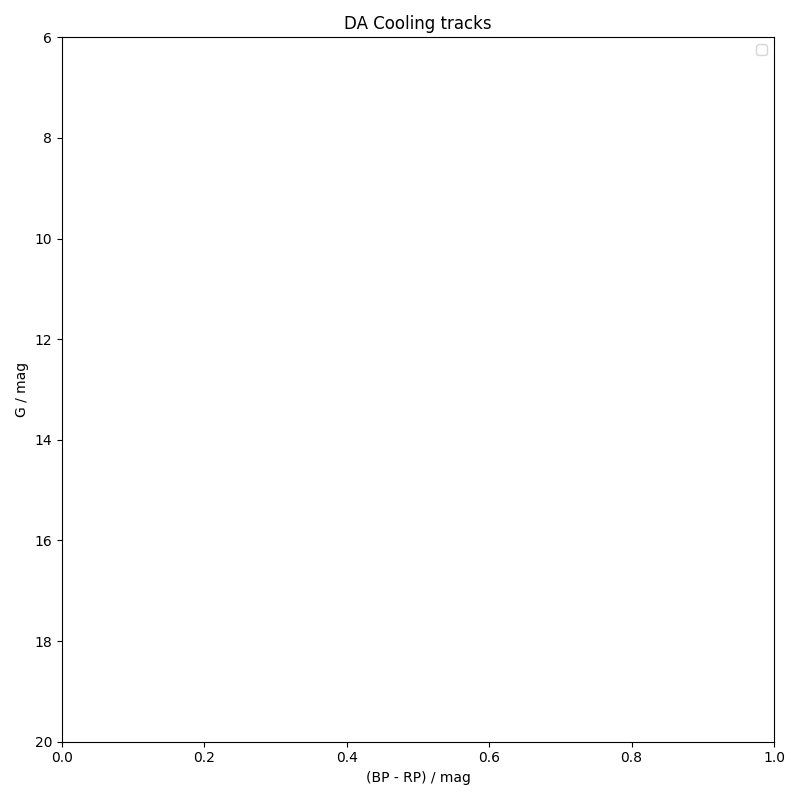
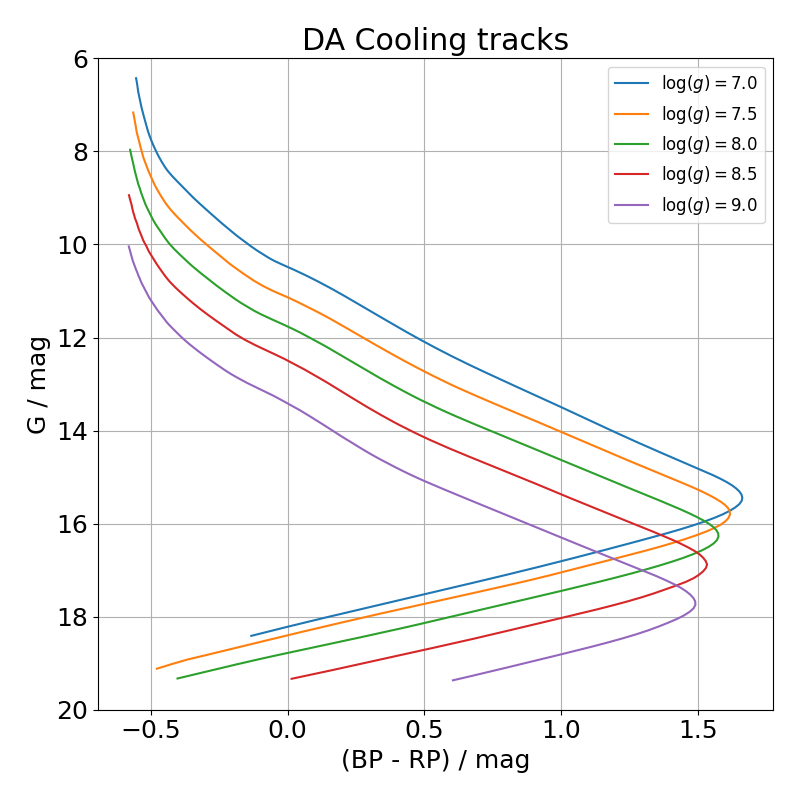
Added example figures in readme, added test, added coverage.

diff --git a/WDPhotTools/fitter.py b/WDPhotTools/fitter.py
@@ -1,7 +1,7 @@
-import emcee
 from matplotlib import pyplot as plt
 import numpy as np
 from scipy import optimize
+import time
 
 from .atmosphere_model_reader import atm_reader
 
@@ -172,17 +172,20 @@ class WDfitter:
 
                     if distance is None:
 
-                        self.bestfit_params[j][i] = float(self.interpolator[j][i](
-                            self.results[j].x[:2]))
-                        self.bestfit_params[j]['distance'] = self.results[j].x[2]
-                        self.bestfit_params[j]['dist_mod'] = 5. * (np.log10(self.results[j].x[2]) - 1)
+                        self.bestfit_params[j][i] = float(
+                            self.interpolator[j][i](self.results[j].x[:2]))
+                        self.bestfit_params[j]['distance'] = self.results[j].x[
+                            2]
+                        self.bestfit_params[j]['dist_mod'] = 5. * (
+                            np.log10(self.results[j].x[2]) - 1)
 
                     else:
 
-                        self.bestfit_params[j][i] = float(self.interpolator[j][i](
-                            self.results[j].x))
+                        self.bestfit_params[j][i] = float(
+                            self.interpolator[j][i](self.results[j].x))
                         self.bestfit_params[j]['distance'] = distance
-                        self.bestfit_params[j]['dist_mod'] = 5. * (np.log10(distance) - 1)
+                        self.bestfit_params[j]['dist_mod'] = 5. * (
+                            np.log10(distance) - 1)
 
         elif method == 'emcee':
 
@@ -214,7 +217,10 @@ class WDfitter:
                       atmosphere=['H', 'He'],
                       color=['red', 'blue'],
                       title=None,
-                      display=True):
+                      display=True,
+                      savefig=False,
+                      figname=None,
+                      ext='png'):
 
         if isinstance(color, str):
 
@@ -250,7 +256,8 @@ class WDfitter:
         for j, k in enumerate(atmosphere):
 
             ax.scatter(self.pivot_wavelengths,
-                       self.best_fit_mag[k] + self.bestfit_params[k]['dist_mod'],
+                       self.best_fit_mag[k] +
+                       self.bestfit_params[k]['dist_mod'],
                        label='Best-fit {}'.format(k),
                        color=color[j],
                        zorder=15)
@@ -277,7 +284,26 @@ class WDfitter:
 
         fig.tight_layout()
 
+        if savefig:
+
+            if isinstance(ext, str):
+
+                ext = [ext]
+
+            for e in ext:
+
+                if figname is None:
+
+                    figname = 'bestfit_wd_solution_{}.{}'.format(time.time(), e)
+
+                else:
+
+                    figname = figname + '.' + e
+
+                plt.savefig(figname)
+
         if display:
+
             plt.show()
 
         return fig

diff --git a/test/test_fitter.py b/test/test_fitter.py
@@ -1,0 +1,71 @@
+from WDPhotTools.fitter import WDfitter
+import numpy as np
+
+ftr = WDfitter()
+
+
+# List all atmosphere parameters
+def test_list_everything():
+    ftr.list_atmosphere_parameters()
+
+
+# Fitting for Mbol with 5 filters for both DA and DB
+def test_fitting_Mbol():
+    ftr.fit(filters=['G3', 'G3_BP', 'G3_RP', 'FUV', 'NUV'],
+            mags=[10.744, 10.775, 10.681, 13.940, 11.738],
+            mag_errors=[0.1, 0.1, 0.1, 0.1, 0.1],
+            logg=7.0,
+            independent=['Mbol'],
+            distance=10.,
+            distance_err=0.1,
+            initial_guess=[10.0])
+    ftr.show_best_fit(display=False)
+    assert np.isclose(ftr.results['H'].x,
+                      np.array([10.421]),
+                      rtol=1e-03,
+                      atol=1e-03).all()
+
+
+# Fitting for logg and Mbol with 5 filters for both DA and DB
+def test_fitting_logg_and_mbol():
+    ftr.fit(filters=['G3', 'G3_BP', 'G3_RP', 'FUV', 'NUV'],
+            mags=[10.744, 10.775, 10.681, 13.940, 11.738],
+            mag_errors=[0.1, 0.1, 0.1, 0.1, 0.1],
+            independent=['Mbol', 'logg'],
+            distance=10.,
+            distance_err=0.1,
+            initial_guess=[10.0, 7.0])
+    ftr.show_best_fit(display=False)
+    assert np.isclose(ftr.results['H'].x,
+                      np.array([10.421, 7.0]),
+                      rtol=1e-03,
+                      atol=1e-03).all()
+
+
+# Fitting for logg, Mbol and distance with 5 filters for both DA and DB
+def test_fitting_logg_Mbol_distance():
+    ftr.fit(filters=['G3', 'G3_BP', 'G3_RP', 'FUV', 'NUV'],
+            mags=[10.744, 10.775, 10.681, 13.940, 11.738],
+            mag_errors=[0.1, 0.1, 0.1, 0.1, 0.1],
+            independent=['Mbol', 'logg'],
+            initial_guess=[10.0, 7.0])
+    ftr.show_best_fit(display=False)
+    assert np.isclose(ftr.results['H'].x,
+                      np.array([10.421, 7.0, 10.]),
+                      rtol=1e-03,
+                      atol=1e-03).all()
+
+
+# Fitting for logg and Mbol with 8 filters for both DA and DB with Nelder-Mead
+def test_fitting_logg_mbol_nelder_mead():
+    ftr.fit(filters=['G3', 'G3_BP', 'G3_RP', 'FUV', 'NUV'],
+            mags=[10.744, 10.775, 10.681, 13.940, 11.738],
+            mag_errors=[0.1, 0.1, 0.1, 0.1, 0.1],
+            independent=['Mbol', 'logg'],
+            initial_guess=[10.0, 7.0],
+            kwargs_for_minimization={'method': 'Nelder-Mead'})
+    ftr.show_best_fit(display=False)
+    assert np.isclose(ftr.results['H'].x,
+                      np.array([10.421, 7.0, 10.]),
+                      rtol=1e-03,
+                      atol=1e-03).all()

diff --git a/example/fitting_atmospheric_properties.py b/example/fitting_atmospheric_properties.py
@@ -1,21 +1,7 @@
+from matplotlib.pyplot import savefig
 from WDPhotTools.fitter import WDfitter
 
 ftr = WDfitter()
-
-
-# Fitting for logg and Mbol with 8 filters for both DA and DB
-ftr.fit(filters=['g_ps1', 'r_ps1', 'i_ps1', 'z_ps1', 'y_ps1', 'G3', 'G3_BP', 'G3_RP'],
-        mags=[21.1437, 19.9678, 19.4993, 19.2981, 19.1478, 20.0533, 20.7883, 19.1868],
-        mag_errors=[0.0321, 0.0229, 0.0083, 0.0234, 0.0187, 0.006322, 0.118615, 0.070880],
-        independent=['Mbol', 'logg'],
-        initial_guess=[10.0, 7.0])
-ftr.results['H']
-ftr.results['He']
-ftr.show_best_fit()
-
-
-
-
 
 # Fitting for logg and Mbol with 5 filters for both DA and DB
 ftr.fit(filters=['G3', 'G3_BP', 'G3_RP', 'FUV', 'NUV'],
@@ -52,5 +38,21 @@ ftr.results['H']
 ftr.results['He']
 ftr.show_best_fit()
 
-
-
+# Fitting for logg and Mbol with 8 filters for both DA and DB
+ftr.fit(filters=[
+    'g_ps1', 'r_ps1', 'i_ps1', 'z_ps1', 'y_ps1', 'G3', 'G3_BP', 'G3_RP'
+],
+        mags=[
+            21.1437, 19.9678, 19.4993, 19.2981, 19.1478, 20.0533, 20.7883,
+            19.1868
+        ],
+        mag_errors=[
+            0.0321, 0.0229, 0.0083, 0.0234, 0.0187, 0.006322, 0.118615,
+            0.070880
+        ],
+        independent=['Mbol', 'logg'],
+        initial_guess=[15.0, 7.5],
+        kwargs_for_minimization={'method': 'Nelder-Mead'})
+ftr.results['H']
+ftr.results['He']
+ftr.show_best_fit(savefig=True, figname='PSOJ1801p6254')

diff --git a/example/generate_cooling_tracks.py b/example/generate_cooling_tracks.py
@@ -9,7 +9,7 @@ G = atm.interp_atm()
 BP = atm.interp_atm(dependent='G3_BP')
 RP = atm.interp_atm(dependent='G3_RP')
 
-logg = np.arange(7., 10., 0.5)
+logg = np.arange(7., 9.5, 0.5)
 Mbol = np.arange(0., 20., 0.1)
 
 plt.figure(1, figsize=(8, 8))

diff --git a/README.md b/README.md
@@ -1,10 +1,25 @@
 # WDPhotTools
 
 ![example workflow name](https://github.com/cylammarco/WDPhotTools/workflows/Python%20package/badge.svg)
+[![Coverage Status](https://coveralls.io/repos/github/cylammarco/WDPhotTools/badge.svg?branch=main)](https://coveralls.io/github/cylammarco/WDPhotTools?branch=main)
 
 This software can generate colour-colour diagram, colour-magnitude diagram in various photometric systems, plotting cooling profiles from different models, and compute theoretical white dwarf luminosity functions based on the built-in or supplied models of (1) initial mass function, (2) main sequence total lifetime, (3) initial-final mass relation, and (4) white dwarf cooling time.
 
 the core parts of this work are three-fold: the first and the backbone of this work is the formatters that handle the output models from various works in the format as they are downloaded. This will allow the software to be updated with the newer models easily in the future. The second core part is the photometric fitter that solves for the WD parameters based on the photometry, with or without distance and reddening. The last part is to generate white dwarf luminosity function in bolometric magnitudes or in any of the photometric systems availalbe from the atmosphere model.
+
+
+## Model Inspection
+
+### Plotting the WD cooling sequence in Gaia filters
+The cooling models only include the modelling of the bolometric lumninosity, the synthetic photometry is not usually provided. We have included the synthetic colours computed by the [Montreal group](http://www.astro.umontreal.ca/~bergeron/CoolingModels/). By default, it maps the (logg, Mbol) to Gaia G band (DR3).
+
+![alt text](https://github.com/cylammarco/WDPhotTools/blob/main/DA_cooling_tracks.png?raw=true)
+
+## Photometric fitting
+An example photometric fit of PSO J1801+6254 in 3 Gaia and 5 Pan-STARRS filters.
+![alt text](https://github.com/cylammarco/WDPhotTools/blob/main/PSOJ1801p6254.png?raw=true)
+
+## Theoretical White Dwarf Luminosity Function
 
 The options for the various models include:
 
@@ -61,16 +76,11 @@ The brackets denote the core type/atmosphere type/mass range/other special prope
 4. MESA models
     1. Lauffer et al. 2018 -- H [CONe/DA+B/1.012-1.308]
 
-## An example set of WDLFs with constant star formation rate
+#### An example set of WDLFs with constant star formation rate
 ![alt text](https://github.com/cylammarco/WDPhotTools/blob/main/constant_C16_C08_montreal_co_da_20_montreal_co_da_20_montreal_co_da_20.png?raw=true)
 
-## An example set of WDLFs with 1 Gyr of star burst
+#### An example set of WDLFs with 1 Gyr of star burst
 ![alt text](https://github.com/cylammarco/WDPhotTools/blob/main/burst_C16_C08_montreal_co_da_20_montreal_co_da_20_montreal_co_da_20.png?raw=true)
 
-## An example set of WDLFs with a mean lifetime of 3 Gyr in the star formation rate
+#### An example set of WDLFs with a mean lifetime of 3 Gyr in the star formation rate
 ![alt text](https://github.com/cylammarco/WDPhotTools/blob/main/decay_C16_C08_montreal_co_da_20_montreal_co_da_20_montreal_co_da_20.png?raw=true)
-
-### Mapping to the synthetic photometry
-The cooling models only include the modelling of the bolometric lumninosity, the synthetic photometry is not usually provided. We have included the synthetic colours computed by the [Montreal group](http://www.astro.umontreal.ca/~bergeron/CoolingModels/). By default, it maps the (logg, Mbol) to Gaia G band (DR3).
-
-![alt text](https://github.com/cylammarco/WDPhotTools/blob/main/DA_cooling_tracks.png?raw=true)
